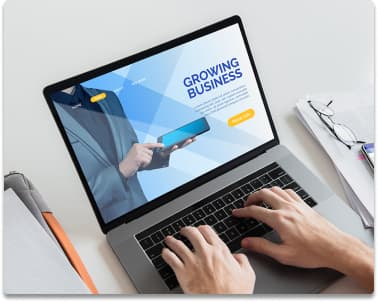
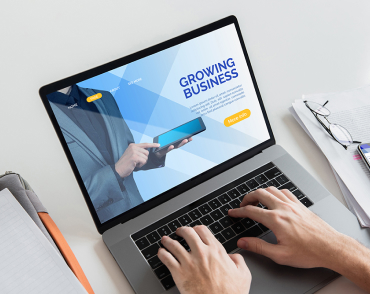
3

diff --git a/css/style.css b/css/style.css
@@ -310,6 +310,7 @@ main {
 .work-design {
   display: block;
   position: relative;
+  height: 294px;
 }
 .section-work h2 {
   text-align: center;
@@ -338,11 +339,12 @@ main {
   padding-bottom: 27px;
   position: absolute;
   bottom: 0px;
+  width: 100%;
   font-family: Roboto;
   font-style: normal;
   font-weight: bold;
   font-size: 14px;
-  line-height: 24px;
+  line-height: 16px;
   text-align: center;
   letter-spacing: 0.03em;
   text-transform: uppercase;
